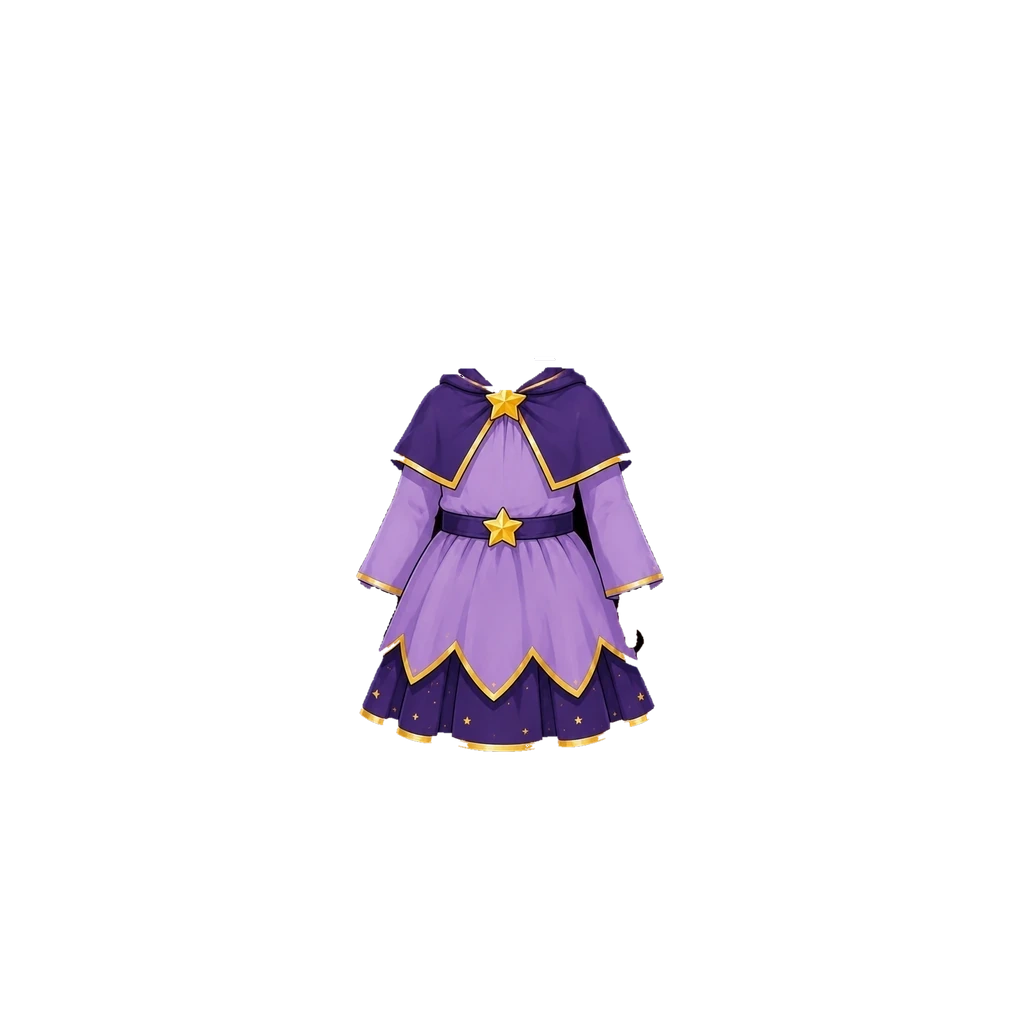
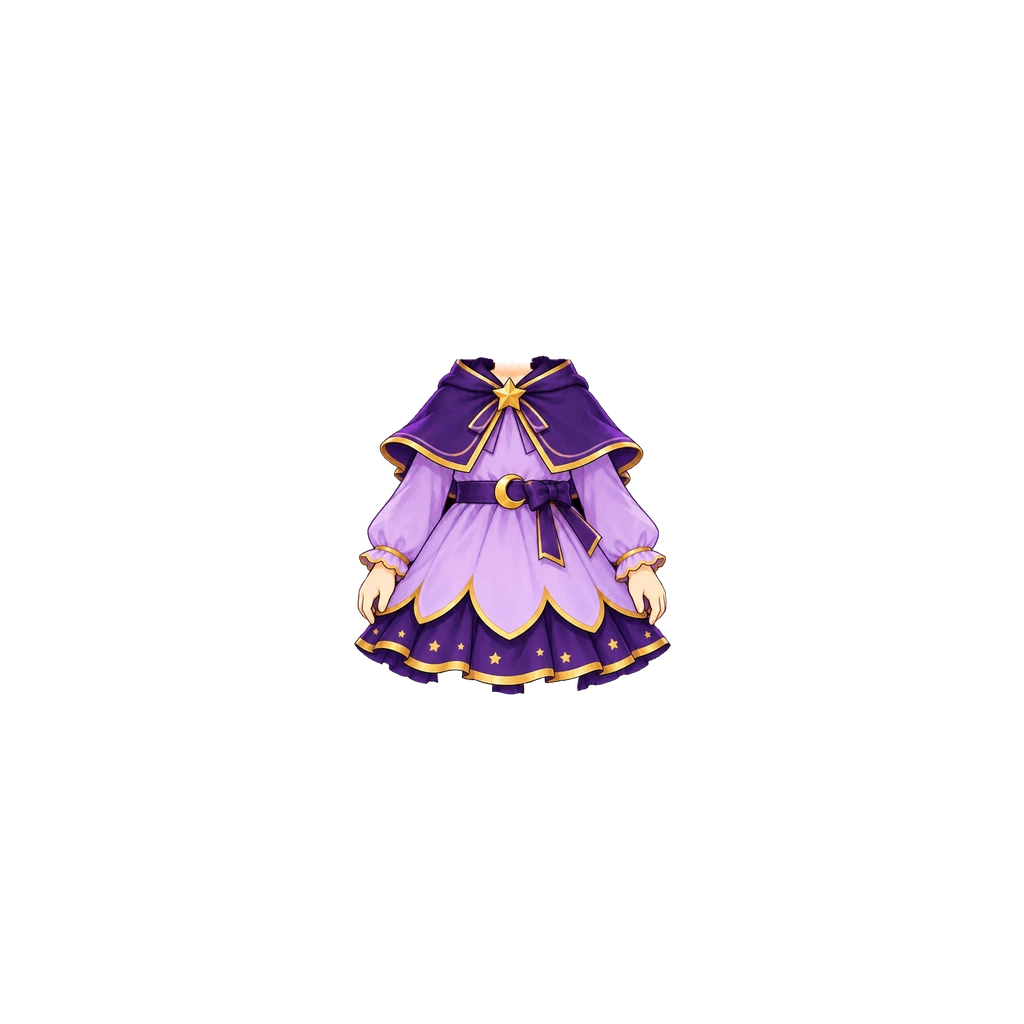
여아 별빛 마법사 옷 새 원화로 교체 (#769)
원화의 턱을 지우고 목 중심·턱선을 여아 아바타에 맞춰, 그려진 손이 아바타 손을 덮는 배율 0.62로 얹었다. img ?v=4.

Claude-Session: https://claude.ai/code/session_018maNuYqDfFyRSe9uKpZhPR

Changed region(s): [[0.3438, 0.3438, 0.6562, 0.75]]

diff --git a/src/data/avatarEquipment.js b/src/data/avatarEquipment.js
@@ -246,7 +246,10 @@ export const AVATAR_CATALOG = [
      앞으로 옷 원화는 이 방식으로 받는 게 제일 정확하다.
      둘 다 상·하의가 한 장이라 사파리 옷과 같이 상의 슬롯 하나로 넣는다. */
   { id: "top_picnic",     slot: "top",   label: "딸기 소풍 옷", emoji: "🍓", price:DECOR_PRICE.rare, rarity: "rare", theme: "picnic", forGender: "girl", coversBottom: true, img: "assets/avatar/top/picnic-outfit-girl.webp?v=3", thumb: "assets/avatar/thumb/top_picnic.webp" },
-  { id: "top_magic",      slot: "top",   label: "별빛 마법사 옷", emoji: "🌟", price:DECOR_PRICE.epic, rarity: "epic", theme: "magic",  forGender: "girl", coversBottom: true, img: "assets/avatar/top/magic-outfit-girl.webp?v=3",  thumb: "assets/avatar/thumb/top_magic.webp" },
+  /* [2026-10-02] 여아 별빛 마법사 옷 새 원화로 교체 — 보라 후드 망토(별 브로치) + 연보라 원피스·별 무늬 치마, 소매 끝에 치마를 잡은 손까지 그려져 있다(사용자 원화).
+     원화 맨 위의 턱 곡선을 지우고, 후드 사이 목 중심(x255.5)을 여아 목 중심 x512.5 에, 원화 턱선 y14 를 여아 턱선 y361 에 맞췄다.
+     배율 0.62 — 원화 손이 아바타 손 자리(x357~417·y560~658)를 덮어 손이 두 쌍으로 안 보인다(흰 수영복 비침 0). 원화 목은 페이드. img ?v=4 · thumb ?v=2. */
+  { id: "top_magic",      slot: "top",   label: "별빛 마법사 옷", emoji: "🌟", price:DECOR_PRICE.epic, rarity: "epic", theme: "magic",  forGender: "girl", coversBottom: true, img: "assets/avatar/top/magic-outfit-girl.webp?v=4",  thumb: "assets/avatar/thumb/top_magic.webp?v=2" },
   /* 하늘 나들이 옷 — 이 원화만 '입은 전신 그림'이 아니라 '옷만 오려 낸 그림'으로 왔다.
      게다가 그린 몸이 베이스 v7 보다 다리가 길어서, 같이 온 '타이츠 있는 판'은
      어깨에 맞추면 타이츠가 발등까지 내려오고 발목에 맞추면 소매가 팔보다 좁았다.

diff --git a/art-src/README.md b/art-src/README.md
@@ -374,7 +374,7 @@ getBoundingClientRect로 재서 정한다. 2026-08-05 점검에서 이 기준을
 | (여아 전수 점검 2026-09-25) | 사용자 요청으로 **여아가 볼 수 있는 옷·모자 10종을 전부** 훑었다(입은 모습 + 상점 카드 + 자홍 배경 + 수치). 눈에 띄는 흠은 없었지만 수치로 **부스러기와 1픽셀급 구멍**이 남아 있어, 아바타 장비 전 파일에 같은 규칙을 한 번에 돌렸다 — **연결 조각 60px 미만 제거 + 테두리에 안 닿는 250px 이하 구멍을 이웃 색으로 메움**. 17개 파일이 손질됐다(해적 모자 부스러기 40·구멍 191 / 해적 옷 여아 구멍 73 / 별빛 마법사 부스러기 41 / 사파리 여아 부스러기 5·구멍 48 / 딸기 소풍 부스러기 7·구멍 22 …). 가장자리가 반투명이라 첫 판에 안 채워진 3개는 이웃 기준을 알파 60 으로 낮춰 마무리했다. **결과: 상점에 있는 17개 파일 전부 조각 1개·부스러기 0·구멍 0.** 손질로 그림이 바뀐 8종은 썸네일을 다시 뽑고 `?v=` 를 올렸다. 은퇴 파일(비행모·꽃헬멧·탐험헬멧·크림부츠·탐험끈·데님/카키 반바지) 8개도 같은 규칙에 함께 손질됐다 — 상점엔 없지만 배포본에는 들어가므로 그대로 뒀다 | (전 파일) |
 | space-girl-src.webp | **[2026-09-25 탑재본 청소]** 색으로 옷을 떼어낸 흔적(손·목·발 살 조각, 깃 안쪽 목)이 층에 남아 있었다. 입은 모습에선 베이스의 같은 자리와 겹쳐 안 보였지만 **상점 카드에선 옷에 손이 매달린 것처럼 보였다.** 소매부리 y583 아래 바깥 덩어리·바지밑단 y868 아래·깃 안쪽 y346~374 의 살과 머리카락을 지우고(3,812px + 부스러기 9조각 22px) 썸네일을 다시 뽑았다. 남아 것도 깃 안쪽 목(y400~428, 1,608px)을 같은 이유로 지웠다. 깃 안은 베이스의 제 목이 채우므로 구멍이 생기지 않는다(실측 확인). **우주복 원화 여아 (사용자 원화 2026-08-19)** — 베이스 v7 여아가 **입고 있는 전신 그림**(897×1753, 배경 검정). 크림색 우주복 + 연보라 어깨·벨트·무릎보호대 + 금색 지퍼·별 패치. 팔다리까지 덮는 한 벌 | avatar/top/space-suit-girl.webp |
 | picnic-girl-src.webp | **딸기 소풍 옷 원화 여아 (사용자 원화 2026-08-19)** — 베이스 v7 여아가 **입고 있는 전신 그림**(859×1832, 배경 검정). 분홍 깅엄 카디건 + 크림 블라우스 + 딸기 자수 산호색 반바지 | avatar/top/picnic-outfit-girl.webp |
-| magic-girl-src.webp | **별빛 마법사 옷 원화 여아 (사용자 원화 2026-08-19)** — 베이스 v7 여아가 **입고 있는 전신 그림**(854×1842, 배경 검정). 보라 케이프 + 금별 브로치·벨트 + 지그재그 밑단 별무늬 치마. 예전 '별빛 마법사 주름치마'(magic-skirt-navy-src)를 대체해서 구버전 원본·배포본은 지웠다 | avatar/top/magic-outfit-girl.webp |
+| magic-girl-src.webp | **별빛 마법사 옷 원화 여아 — 새 판 (사용자 원화 2026-10-02, 이전 판 교체)**. 512×553 투명 배경, 보라 후드 망토(금 테두리·별 브로치) + 연보라 원피스·초승달 허리띠·별 무늬 보라 치마, 소매 끝에 치마를 잡은 손까지 그려져 있다. 맨 위(원화 y0~16)에 베이스 턱 아래 곡선이 함께 그려져 있어 보라·금색이 아닌 픽셀을 지웠다. 후드 사이 목 중심 x255.5 를 여아 목 중심 x512.5 에, 원화 턱선 y14 를 여아 턱선 y361 에 맞추고 배율 0.62 — 원화 손이 아바타 손 자리(x357~417·y560~658)를 덮고 그 아래는 치마가 가려 손이 두 쌍으로 안 보인다(손을 지우면 손목이 잘려 보여 살렸다). 목 살은 턱선 아래 20px 동안 0→1 페이드. 흰 수영복 비침 0, 조각 1개. 탑재 상자 (354,353,671,695) · ?v=4 | avatar/top/magic-outfit-girl.webp · thumb/top_magic.webp |
 | pirate-girl-outfit-src.webp | **해적 옷 원화 여아 — 새 판 (사용자 원화 2026-10-02, 이전 판 교체)**. 416×485 투명 배경, 크림 퍼프 블라우스(둥근 깃·주황 리본·금단추) + 주황 허리띠를 맨 남색 반바지 한 벌. 위쪽에 목(턱 없음)이 함께 그려져 있다. 원화 목 외곽선 x177.5~240.5(폭 63, 중심 209)를 여아 목 중심 x512.5 에, 곧은 목선이 끝나는 원화 y15 를 여아 y372 에 맞추고 배율 0.70(목 폭이 같아지는 값 · 흰 수영복도 이 값부터 0). 목 살(r−b>70)과 목 옆선은 원화 y4→20 동안 0→1 페이드. 조각 1개. 탑재 상자 (366,362,657,702) · imgGirl ?v=4 | avatar/top/pirate-outfit-girl.webp · thumb/top_pirate-girl.webp |
 | picnic-girl-hat-worn-src.webp | **딸기 밀짚모자 원화 여아 (사용자 원화 2026-08-20)** — 베이스 v7 여아가 **쓰고 있는 머리 그림**(557×565, 투명). 밀짚모자 + 빨간 띠 + 딸기. 얼굴 상자로 맞춤(배율 0.6317) · 탑재 상자 (342,71)-(693,284) | avatar/hat/picnic-hat-girl.webp |
 | picnic-girl-set-worn-src.webp | **딸기 소풍 세트 전신 그림 여아 (사용자 원화 2026-08-20)** — 860×1829, 알파가 머리 부분만 살아 있어서 **RGB의 검정 배경을 흘려 지워** 썼다. 여기서 신발(발목 아래)만 떼어냈다. 바구니는 손에 가려 조각나서 못 썼다 | **(넣었다가 상점에서 뺌 2026-08-20)** — 그림은 avatar/shoes/picnic-shoes-girl.webp 에 그대로 있다 |
